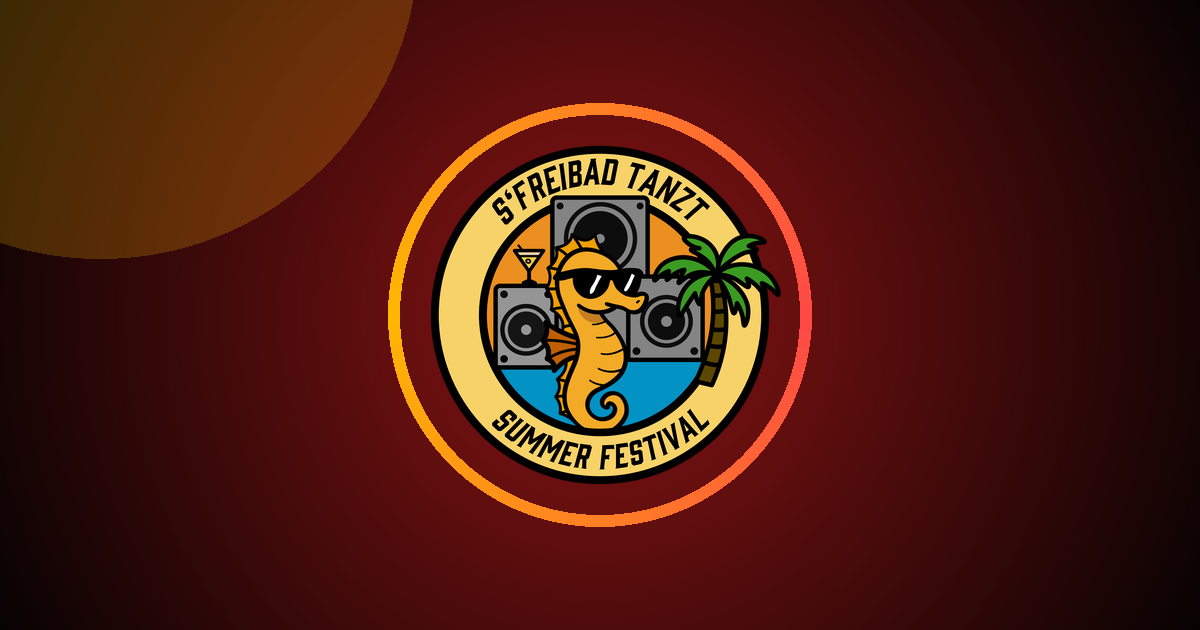
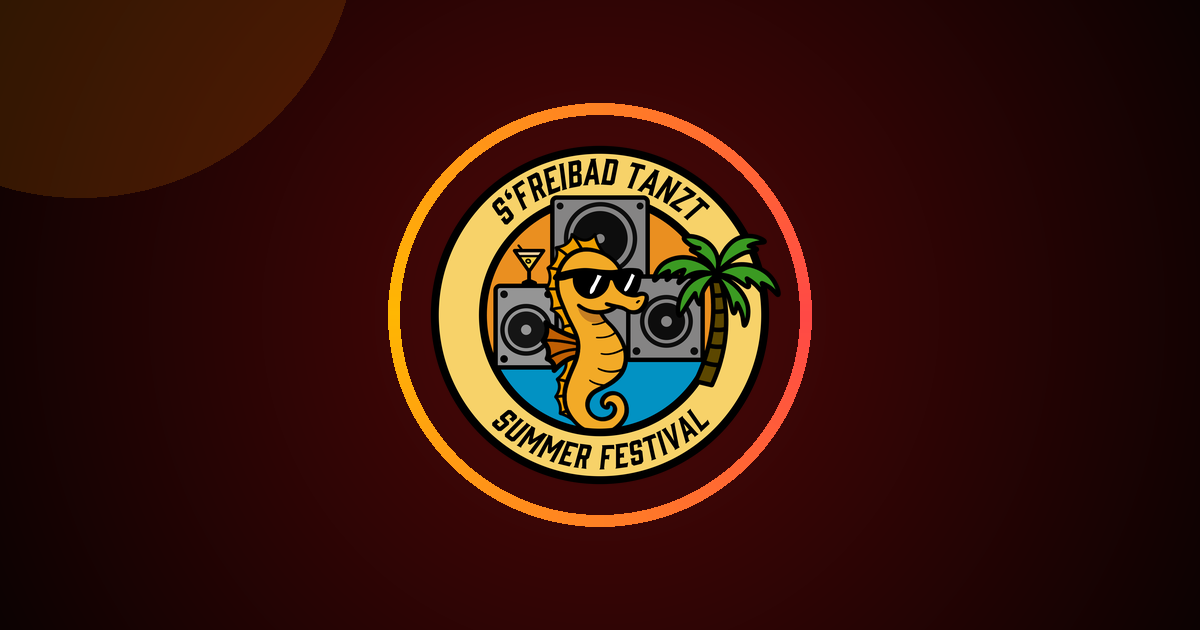
pjasd

diff --git a/index.html b/index.html
@@ -13,7 +13,7 @@
   <meta property="og:url" content="https://freibad-tanzt.de/">
   <meta property="og:title" content="S'Freibad Tanzt | Summer Festival in Langenburg">
   <meta property="og:description" content="17.–19. Juli im Freibad Langenburg: Live DJs, Band, Schirmbar, Summer Beats & Open Air.">
-  <meta property="og:image" content="https://freibad-tanzt.de/social-preview.png">
+  <meta property="og:image" content="https://freibad-tanzt.de/social-preview.png?v=dark">
   <meta property="og:image:width" content="1200">
   <meta property="og:image:height" content="630">
   <meta property="og:locale" content="de_DE">
@@ -21,7 +21,7 @@
   <meta name="twitter:card" content="summary_large_image">
   <meta name="twitter:title" content="S'Freibad Tanzt | Summer Festival">
   <meta name="twitter:description" content="17.–19. Juli · Freibad Langenburg · Live DJs, Band, Schirmbar.">
-  <meta name="twitter:image" content="https://freibad-tanzt.de/social-preview.png">
+  <meta name="twitter:image" content="https://freibad-tanzt.de/social-preview.png?v=dark">
   <link rel="preconnect" href="https://fonts.googleapis.com">
   <link rel="preconnect" href="https://fonts.gstatic.com" crossorigin>
   <link
